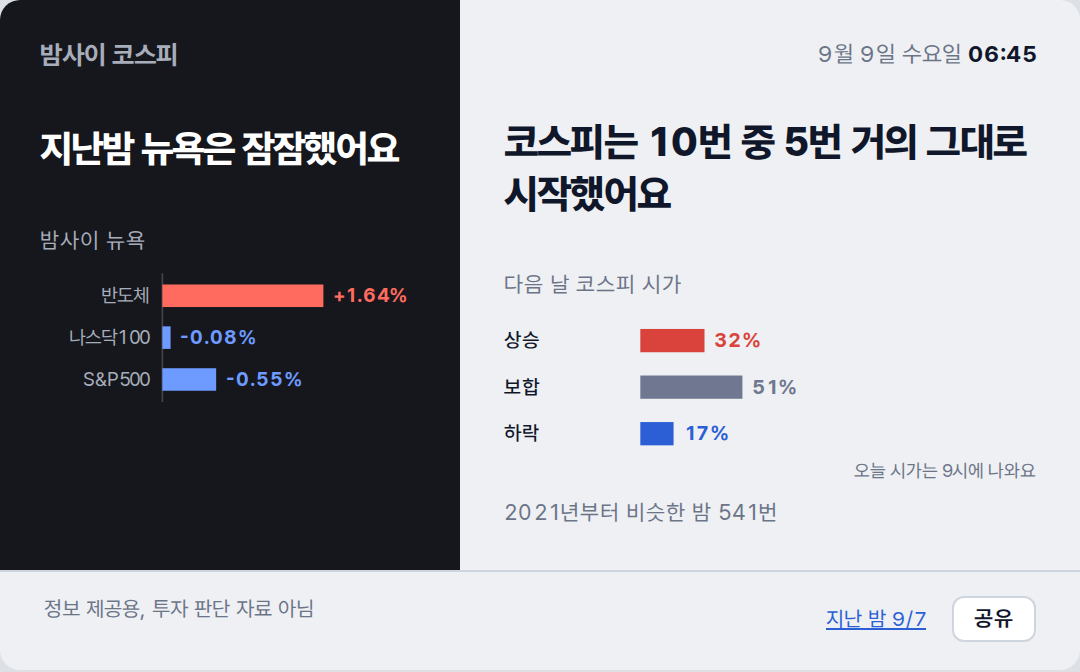
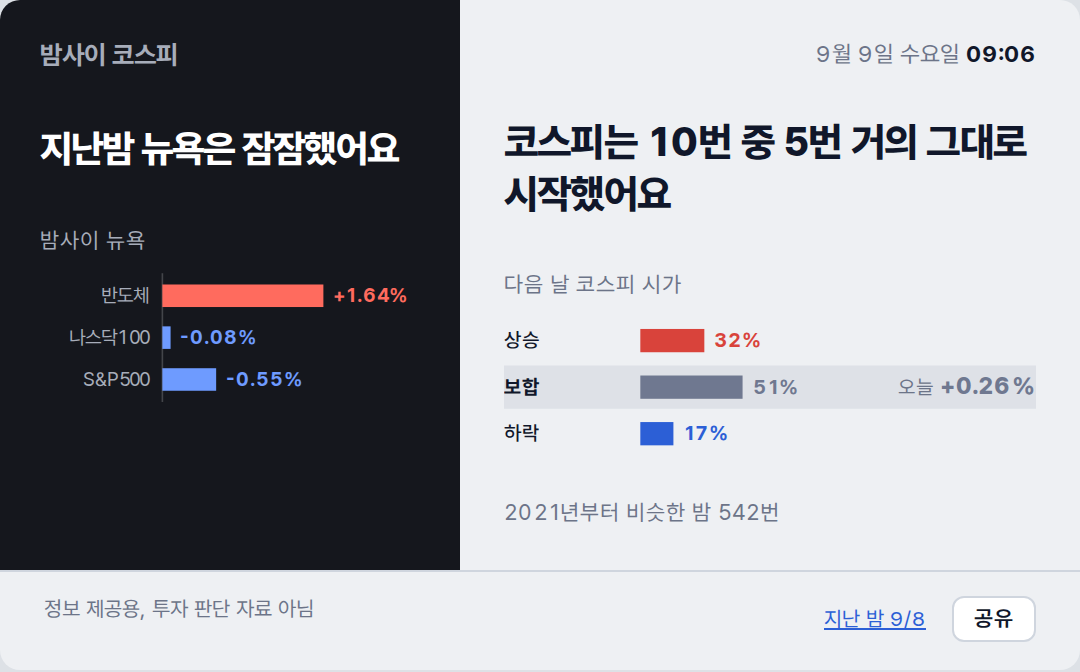
deploy: 8f8687e1eae945a4bcccb7ea48b371018f106165

diff --git a/2026-09-09/index.html b/2026-09-09/index.html
@@ -38,19 +38,20 @@ footer a{color:#2C5FD6}
 <rect x="76" y="61" width="33.4" height="14" fill="var(--down)"/>
 <text x="115.4" y="72" fill="var(--down)" font-weight="700">-0.55%</text>
 </svg></section>
-<section class="day"><p class="stamp">9월 9일 수요일 <b>06:45</b></p><p class="claim">코스피는 10번 중 5번 거의 그대로 시작했어요</p><p class="lab">다음 날 코스피 시가</p><svg viewBox="0 0 320 100" xmlns="http://www.w3.org/2000/svg" font-family="var(--sans)" font-size="12">
+<section class="day"><p class="stamp">9월 9일 수요일 <b>09:06</b></p><p class="claim">코스피는 10번 중 5번 거의 그대로 시작했어요</p><p class="lab">다음 날 코스피 시가</p><svg viewBox="0 0 320 100" xmlns="http://www.w3.org/2000/svg" font-family="var(--sans)" font-size="12">
 <text x="0" y="20" fill="var(--ink)" font-weight="500">상승</text>
-<rect x="82" y="9" width="38.6" height="14" fill="var(--up)"/>
-<text x="126.6" y="20" fill="var(--up)" font-weight="700">32%</text>
-<text x="0" y="48" fill="var(--ink)" font-weight="500">보합</text>
-<rect x="82" y="37" width="61.4" height="14" fill="var(--flat)"/>
-<text x="149.4" y="48" fill="var(--flat)" font-weight="700">51%</text>
+<rect x="82" y="9" width="38.5" height="14" fill="var(--up)"/>
+<text x="126.5" y="20" fill="var(--up)" font-weight="700">32%</text>
+<rect x="0" y="31" width="320" height="26" fill="var(--flat)" opacity=".12"/>
+<text x="0" y="48" fill="var(--ink)" font-weight="700">보합</text>
+<rect x="82" y="37" width="61.5" height="14" fill="var(--flat)"/>
+<text x="149.5" y="48" fill="var(--flat)" font-weight="700">51%</text>
+<text x="320" y="48" text-anchor="end" fill="var(--ink)"><tspan fill="var(--muted)">오늘 </tspan><tspan font-weight="800" font-size="14" fill="var(--flat)">+0.26%</tspan></text>
 <text x="0" y="76" fill="var(--ink)" font-weight="500">하락</text>
-<rect x="82" y="65" width="20.0" height="14" fill="var(--down)"/>
-<text x="108.0" y="76" fill="var(--down)" font-weight="700">17%</text>
-<text x="320" y="98" text-anchor="end" fill="var(--muted)" font-size="11">오늘 시가는 9시에 나와요</text>
-</svg><p class="cap">2021년부터 비슷한 밤 541번</p></section>
-<footer><span>정보 제공용, 투자 판단 자료 아님</span><span style="white-space:nowrap"><a href="../2026-09-07/">지난 밤 9/7</a> <button class="share" type="button">공유</button></span></footer>
+<rect x="82" y="65" width="19.9" height="14" fill="var(--down)"/>
+<text x="107.9" y="76" fill="var(--down)" font-weight="700">17%</text>
+</svg><p class="cap">2021년부터 비슷한 밤 542번</p></section>
+<footer><span>정보 제공용, 투자 판단 자료 아님</span><span style="white-space:nowrap"><a href="../2026-09-08/">지난 밤 9/8</a> <button class="share" type="button">공유</button></span></footer>
 <script>
 /* 공유: Web Share가 있으면 시스템 공유 시트, 없으면 링크 복사. 링크는 이 날짜 페이지(OG 카드 붙음) */
 document.querySelector('.share').addEventListener('click', async function () {

diff --git a/index.html b/index.html
@@ -38,19 +38,20 @@ footer a{color:#2C5FD6}
 <rect x="76" y="61" width="33.4" height="14" fill="var(--down)"/>
 <text x="115.4" y="72" fill="var(--down)" font-weight="700">-0.55%</text>
 </svg></section>
-<section class="day"><p class="stamp">9월 9일 수요일 <b>06:45</b></p><p class="claim">코스피는 10번 중 5번 거의 그대로 시작했어요</p><p class="lab">다음 날 코스피 시가</p><svg viewBox="0 0 320 100" xmlns="http://www.w3.org/2000/svg" font-family="var(--sans)" font-size="12">
+<section class="day"><p class="stamp">9월 9일 수요일 <b>09:06</b></p><p class="claim">코스피는 10번 중 5번 거의 그대로 시작했어요</p><p class="lab">다음 날 코스피 시가</p><svg viewBox="0 0 320 100" xmlns="http://www.w3.org/2000/svg" font-family="var(--sans)" font-size="12">
 <text x="0" y="20" fill="var(--ink)" font-weight="500">상승</text>
-<rect x="82" y="9" width="38.6" height="14" fill="var(--up)"/>
-<text x="126.6" y="20" fill="var(--up)" font-weight="700">32%</text>
-<text x="0" y="48" fill="var(--ink)" font-weight="500">보합</text>
-<rect x="82" y="37" width="61.4" height="14" fill="var(--flat)"/>
-<text x="149.4" y="48" fill="var(--flat)" font-weight="700">51%</text>
+<rect x="82" y="9" width="38.5" height="14" fill="var(--up)"/>
+<text x="126.5" y="20" fill="var(--up)" font-weight="700">32%</text>
+<rect x="0" y="31" width="320" height="26" fill="var(--flat)" opacity=".12"/>
+<text x="0" y="48" fill="var(--ink)" font-weight="700">보합</text>
+<rect x="82" y="37" width="61.5" height="14" fill="var(--flat)"/>
+<text x="149.5" y="48" fill="var(--flat)" font-weight="700">51%</text>
+<text x="320" y="48" text-anchor="end" fill="var(--ink)"><tspan fill="var(--muted)">오늘 </tspan><tspan font-weight="800" font-size="14" fill="var(--flat)">+0.26%</tspan></text>
 <text x="0" y="76" fill="var(--ink)" font-weight="500">하락</text>
-<rect x="82" y="65" width="20.0" height="14" fill="var(--down)"/>
-<text x="108.0" y="76" fill="var(--down)" font-weight="700">17%</text>
-<text x="320" y="98" text-anchor="end" fill="var(--muted)" font-size="11">오늘 시가는 9시에 나와요</text>
-</svg><p class="cap">2021년부터 비슷한 밤 541번</p></section>
-<footer><span>정보 제공용, 투자 판단 자료 아님</span><span style="white-space:nowrap"><a href="./2026-09-07/">지난 밤 9/7</a> <button class="share" type="button">공유</button></span></footer>
+<rect x="82" y="65" width="19.9" height="14" fill="var(--down)"/>
+<text x="107.9" y="76" fill="var(--down)" font-weight="700">17%</text>
+</svg><p class="cap">2021년부터 비슷한 밤 542번</p></section>
+<footer><span>정보 제공용, 투자 판단 자료 아님</span><span style="white-space:nowrap"><a href="./2026-09-08/">지난 밤 9/8</a> <button class="share" type="button">공유</button></span></footer>
 <script>
 /* 공유: Web Share가 있으면 시스템 공유 시트, 없으면 링크 복사. 링크는 이 날짜 페이지(OG 카드 붙음) */
 document.querySelector('.share').addEventListener('click', async function () {
